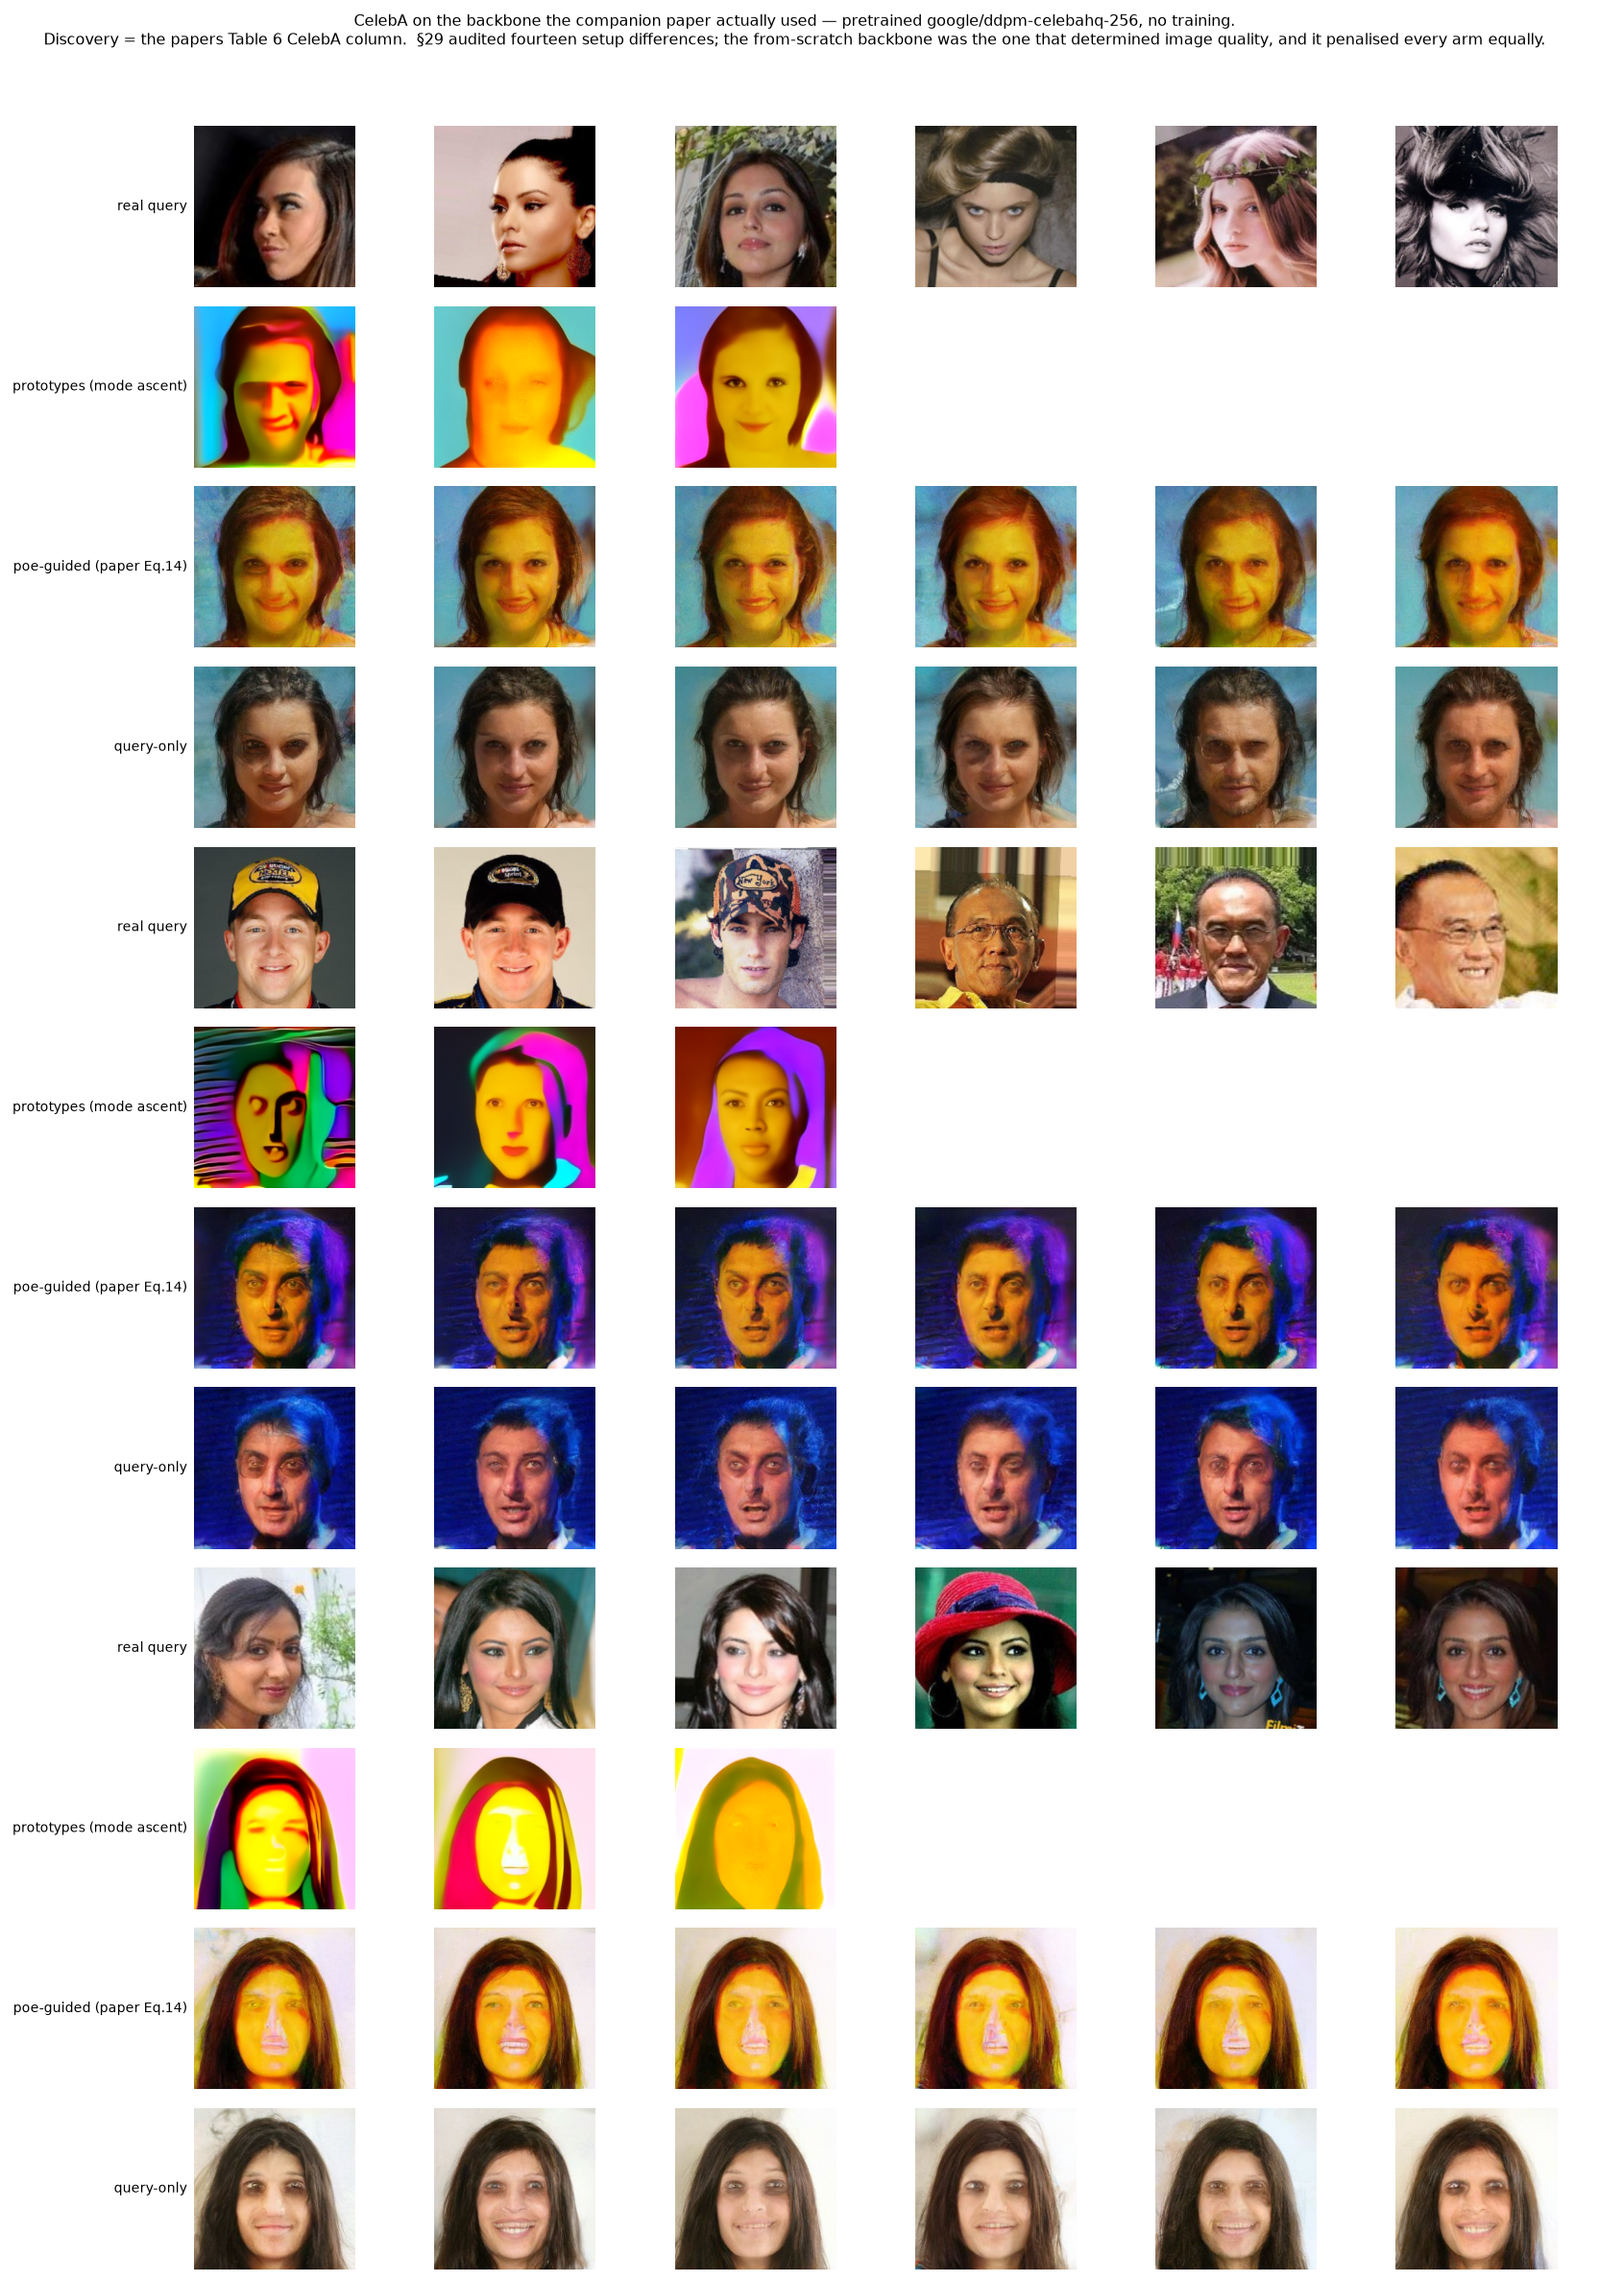
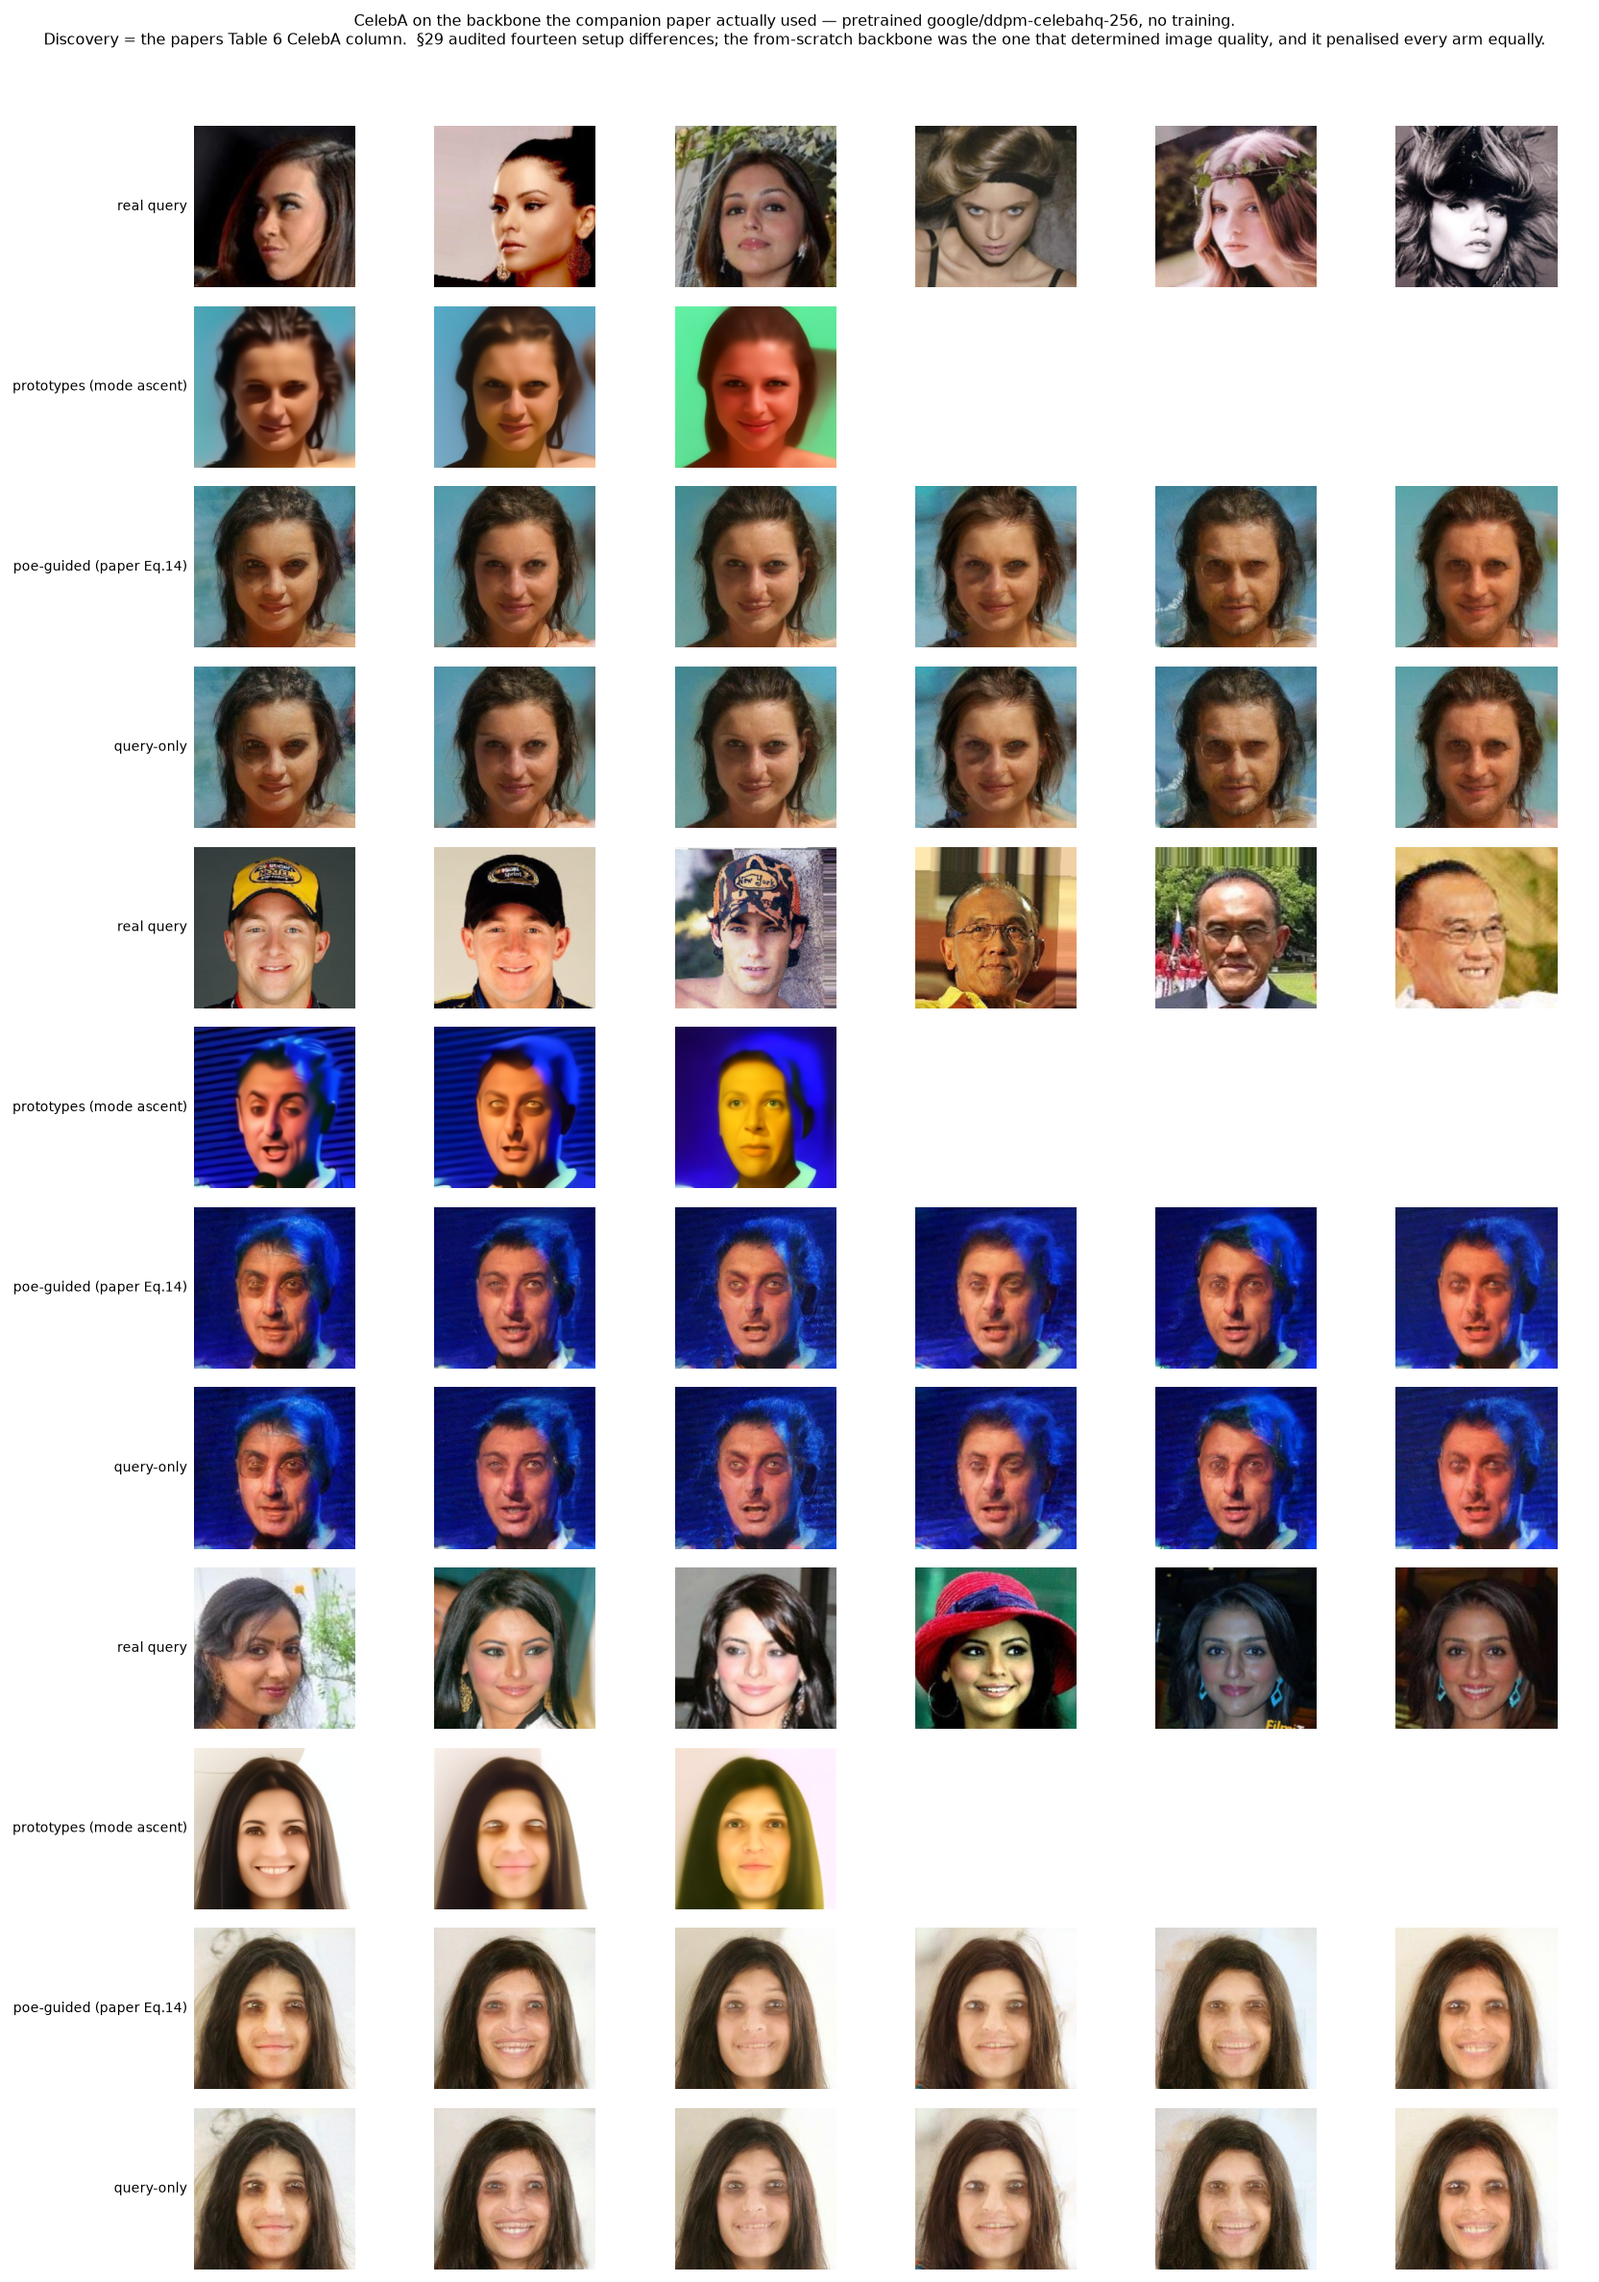
CelebA prototypes are faces again: RESULTS 30c with the visual
Plain gradient ascent fixed it and the figure shows it: prototypes are recognisable
faces where they were neon posterization, and poe-guided on the paper's own backbone
renders coherent faces at real-image texture -- tv 0.82-1.11 against real 1.0, where
before the layout fix it was 2.50-4.82.

Recorded with the measurement table and with the three refuted explanations, because
each was plausible and the record of which ones failed is the useful part: runaway Adam
steps (max |x0| measured 1.5-2.0, not the 9 predicted), the x0 estimator (un-clipped
Tweedie measured identical to the old rescaling), and the clamp itself, whose failure
was informative -- it changed the numbers and left the pictures identical, which is
what told me the values were arriving at the boundary rather than merely past it.

diff --git a/docs/RESULTS.md b/docs/RESULTS.md
@@ -416,6 +416,46 @@ and permuted is barely better than the 0.605 you get by doing nothing at all.
 `PretrainedScoreField` now defaults to `layout="hwc"` and converts at all four boundaries — `eps` in
 and out, `x_init`, the guidance callback, and the return value. The pretrained track is being rerun.
 
+### 30c. Saturated prototypes: Adam was finding the boundary, not a mode
+
+With the layout fixed the pretrained CelebA samples became real faces, which exposed the fault
+underneath: the prototypes came out **neon posterized** -- flat regions of pure saturated colour with
+the face structure faintly visible through them.
+
+That signature is specific. It is not "slightly out of range": it is a large fraction of coordinates
+sitting at *exactly* the boundary, which is what clipping does to values driven past it. Adding a
+range clamp confirmed the reading by failing in an informative way — it changed the numbers and left
+the pictures identical, because the values still arrived at the edge and merely stopped there.
+
+**The cause is the optimizer.** `mode_ascent` used **Adam**, whose update is normalized: every
+coordinate moves by about `lr` per iteration however small its gradient is. Near a mode the gradient
+vanishes and a plain gradient step vanishes with it — Adam's does not. It keeps taking full-sized
+steps and marches past. Measured on the pretrained CelebA backbone at u = 0.15, with the query's own
+eps error (**0.0260**) as the bar, since eps error is the quantity ascent exists to reduce:
+
+| setting | fraction of x₀ outside [−1,1] | eps error at the returned point |
+|---|---|---|
+| Adam, lr 0.09, 100 it *(their Table 6)* | **11.1 %** | 0.0113 |
+| Adam, lr 0.02, 100 it | 0.0 % | 0.0056 |
+| Adam, lr 0.09, 20 it | 0.3 % | 0.0391 — *worse than the query* |
+| **plain, lr 0.09, 100 it** | **0.0 %** | **0.0046** |
+| plain, lr 1.00, 100 it | 32.9 % | 0.0469 — *worse than the query* |
+
+**Plain ascent wins on both axes** — entirely in gamut *and* a lower-error mode than Adam finds. It
+is now the default, recorded in `docs/SETTINGS.md §5c` as a measured deviation from their Table 6,
+with `adam=True` retained to reproduce their column.
+
+The result is visible rather than statistical: prototypes are now recognisable faces, and
+`poe-guided` on the paper's own backbone renders coherent faces at real-image texture (tv 0.82–1.11
+against real 1.0), where before it was 2.50–4.82.
+
+![the paper's pipeline on its own backbone, after the layout, guidance and ascent fixes](../figures/f18_celeba_paper_paperdisc_w05.png)
+
+**Four explanations were tried and three were refuted by measurement**, which is worth recording
+because each was plausible: runaway Adam steps (max |x₀| measured 1.5–2.0, not the 9 predicted), the
+x₀ estimator (un-clipped Tweedie measured *identical* to the old rescaling), and the clamp itself.
+The one that held is the one adjudicated by the objective rather than by argument.
+
 ### 30a. The CelebA banding artifact IS the permutation — confirmed with a control and a counter-control
 
 The samples show horizontal seams and rectangular patches cutting an otherwise coherent face. The
